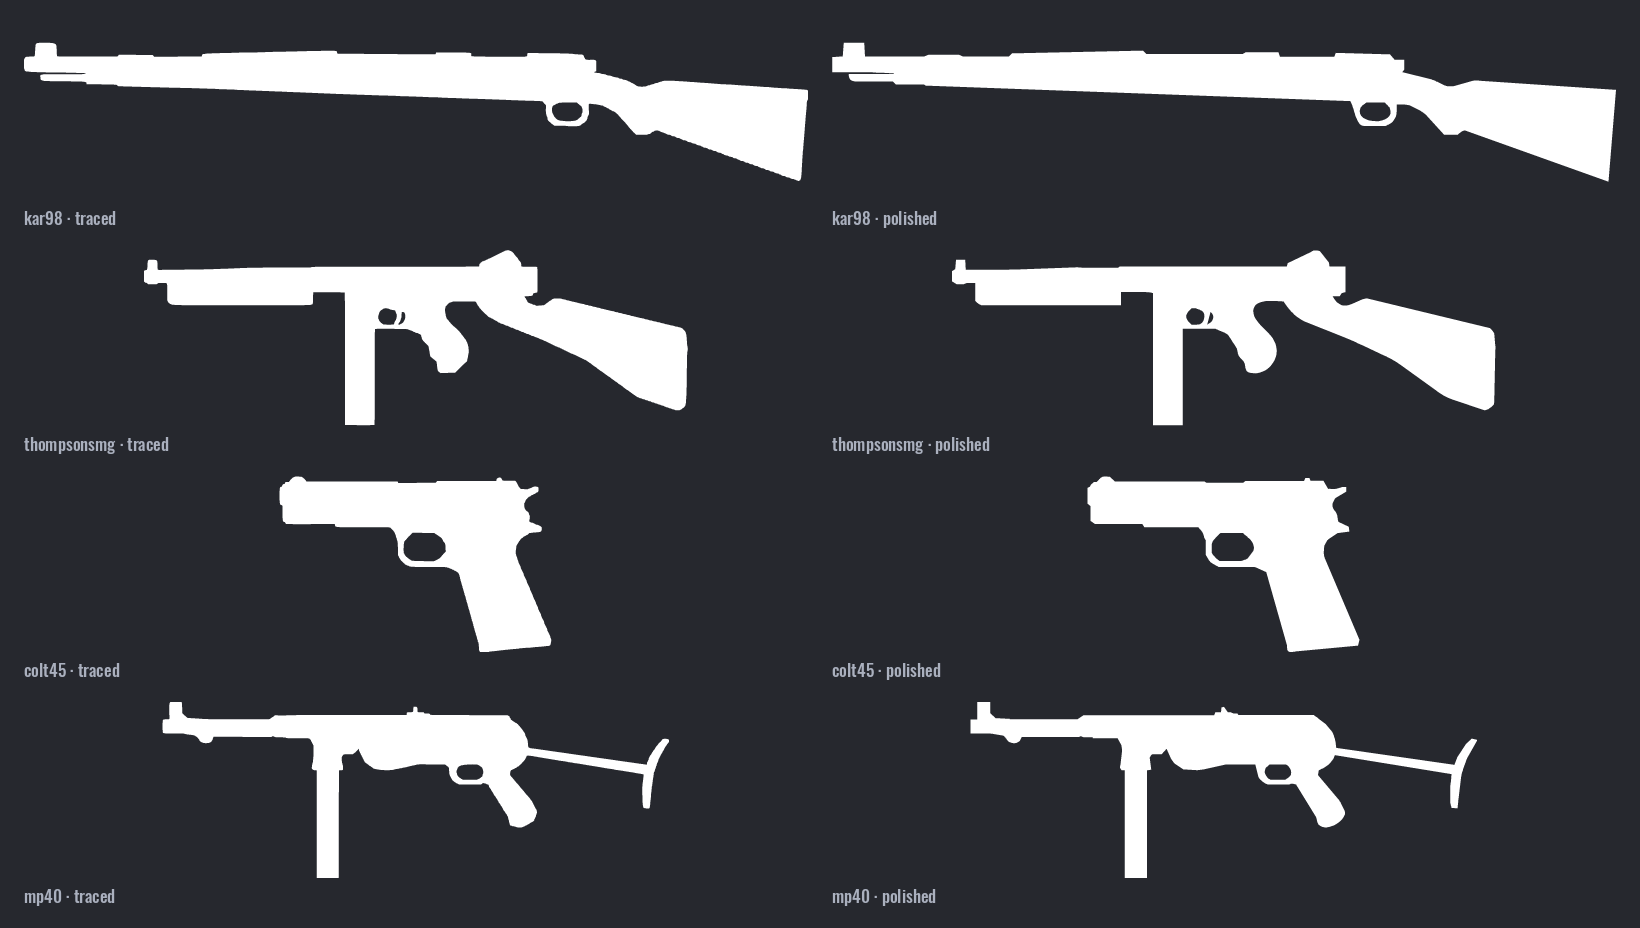
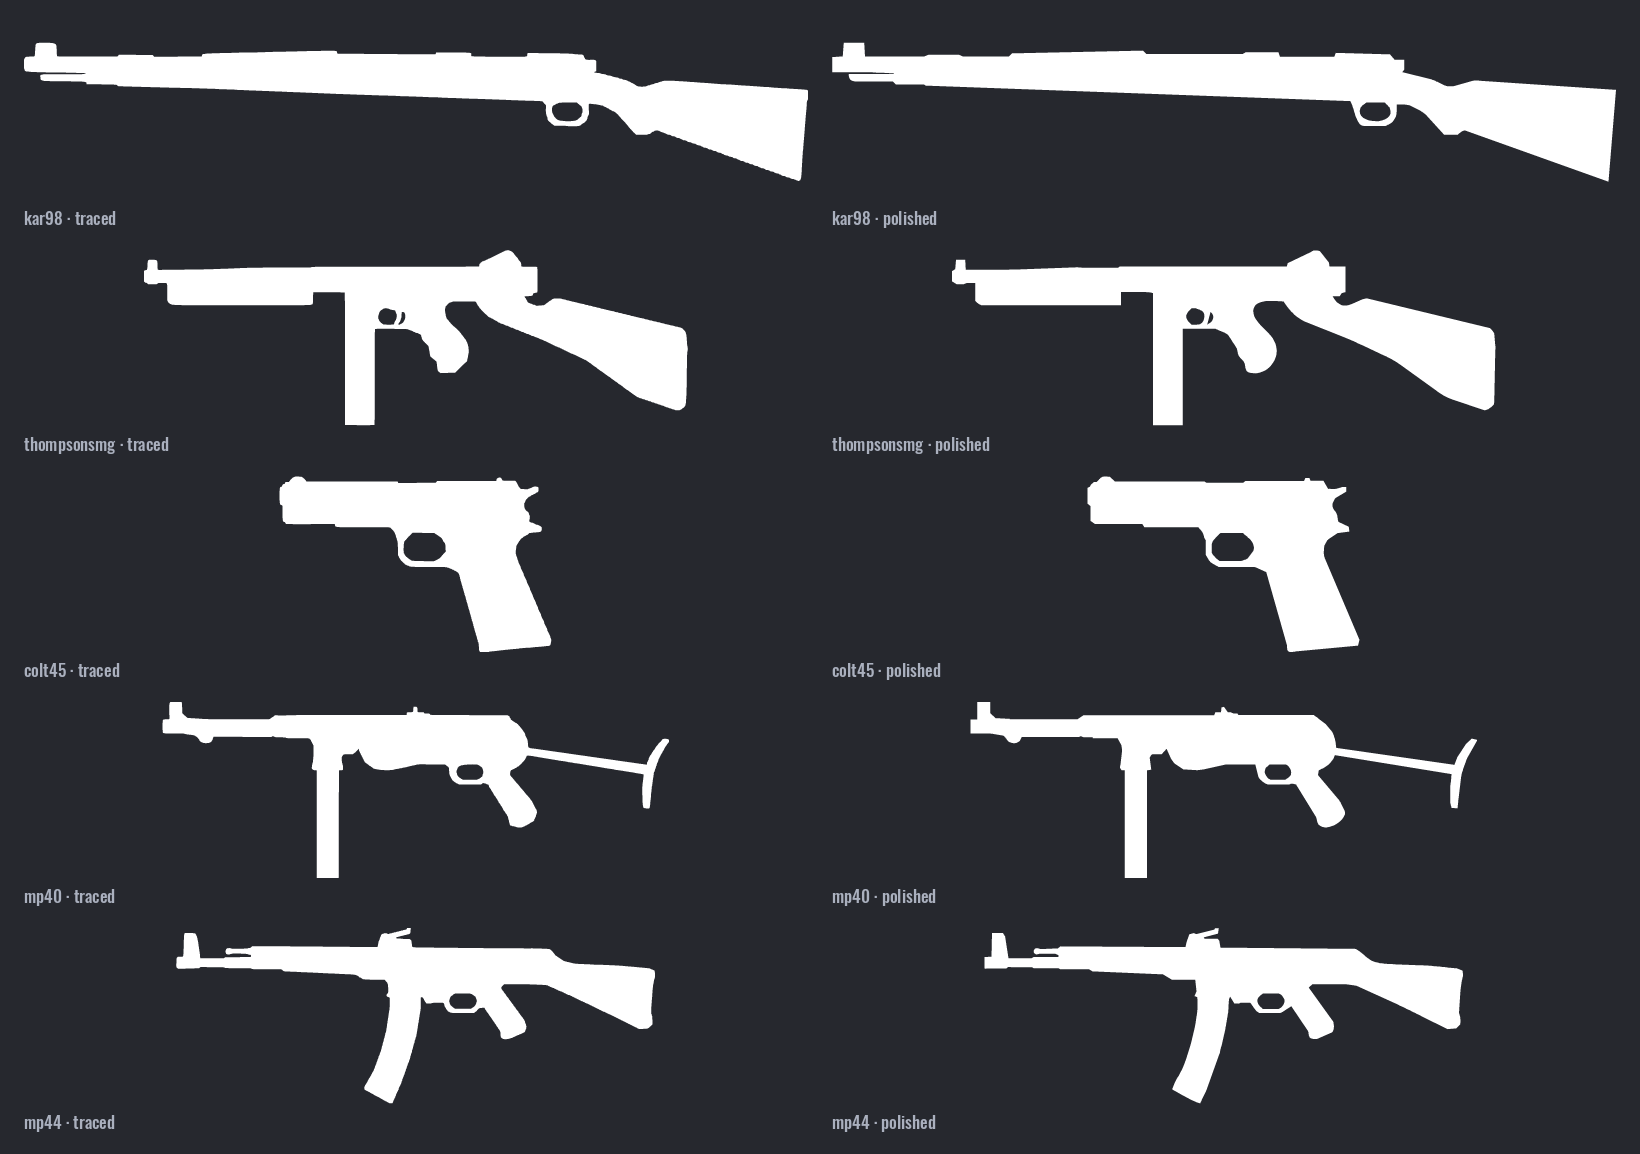
Add the polished StG 44 outline
The StG 44 (mp44) drawn again from its PNG as a clean vector, following
a picture of the gun: the curved magazine now one smooth curve each side
where the PNG has straight facets, its floor plate kept crisp; the
trigger guard's opening a rounded slot and its corners rounded; the
bottom of the grip rounded; the stock's step down from the receiver
smooth and its top and underside without kinks. The barrel, sights,
gas tube and receiver stay straight and crisp. 97 segments against the
trace's 485, lined up with the PNG to within a pixel.

Added to the README's before and after.

diff --git a/README.md b/README.md
@@ -45,9 +45,9 @@ Like the originals they are white, the colour the HUD tints, so they don't show 
 
 The polished outlines are drawn again from the same PNGs, as clean vectors: edges that are straight on the weapon are exactly straight, corners are crisp, and curved parts such as grips, trigger guards and stocks are smooth, with none of the pixel steps left. Which parts are curved is judged from renders and pictures of the weapon; the Thompson's grip and stock follow a picture of a real M1A1. Each still lines up with its PNG to within about a pixel, in a quarter to a fifth of the trace's segments, and is the same kind of file: one white path, the viewBox the PNG's size, holes running against the shapes around them.
 
-So far the Kar98k, the Thompson, the Colt .45 and the MP40 are done; the rest of *Allied Assault*'s own weapons are to follow, the bazooka and the Panzerschreck aside. Traced against polished:
+So far the Kar98k, the Thompson, the Colt .45, the MP40 and the StG 44 are done; the rest of *Allied Assault*'s own weapons are to follow, the bazooka and the Panzerschreck aside. Traced against polished:
 
-<img src="weapons/preview-polished.png" alt="The Kar98k, Thompson, Colt .45 and MP40 outlines, white on dark grey: each trace on the left, its polished outline on the right">
+<img src="weapons/preview-polished.png" alt="The Kar98k, Thompson, Colt .45, MP40 and StG 44 outlines, white on dark grey: each trace on the left, its polished outline on the right">
 
 ## Logo
 
